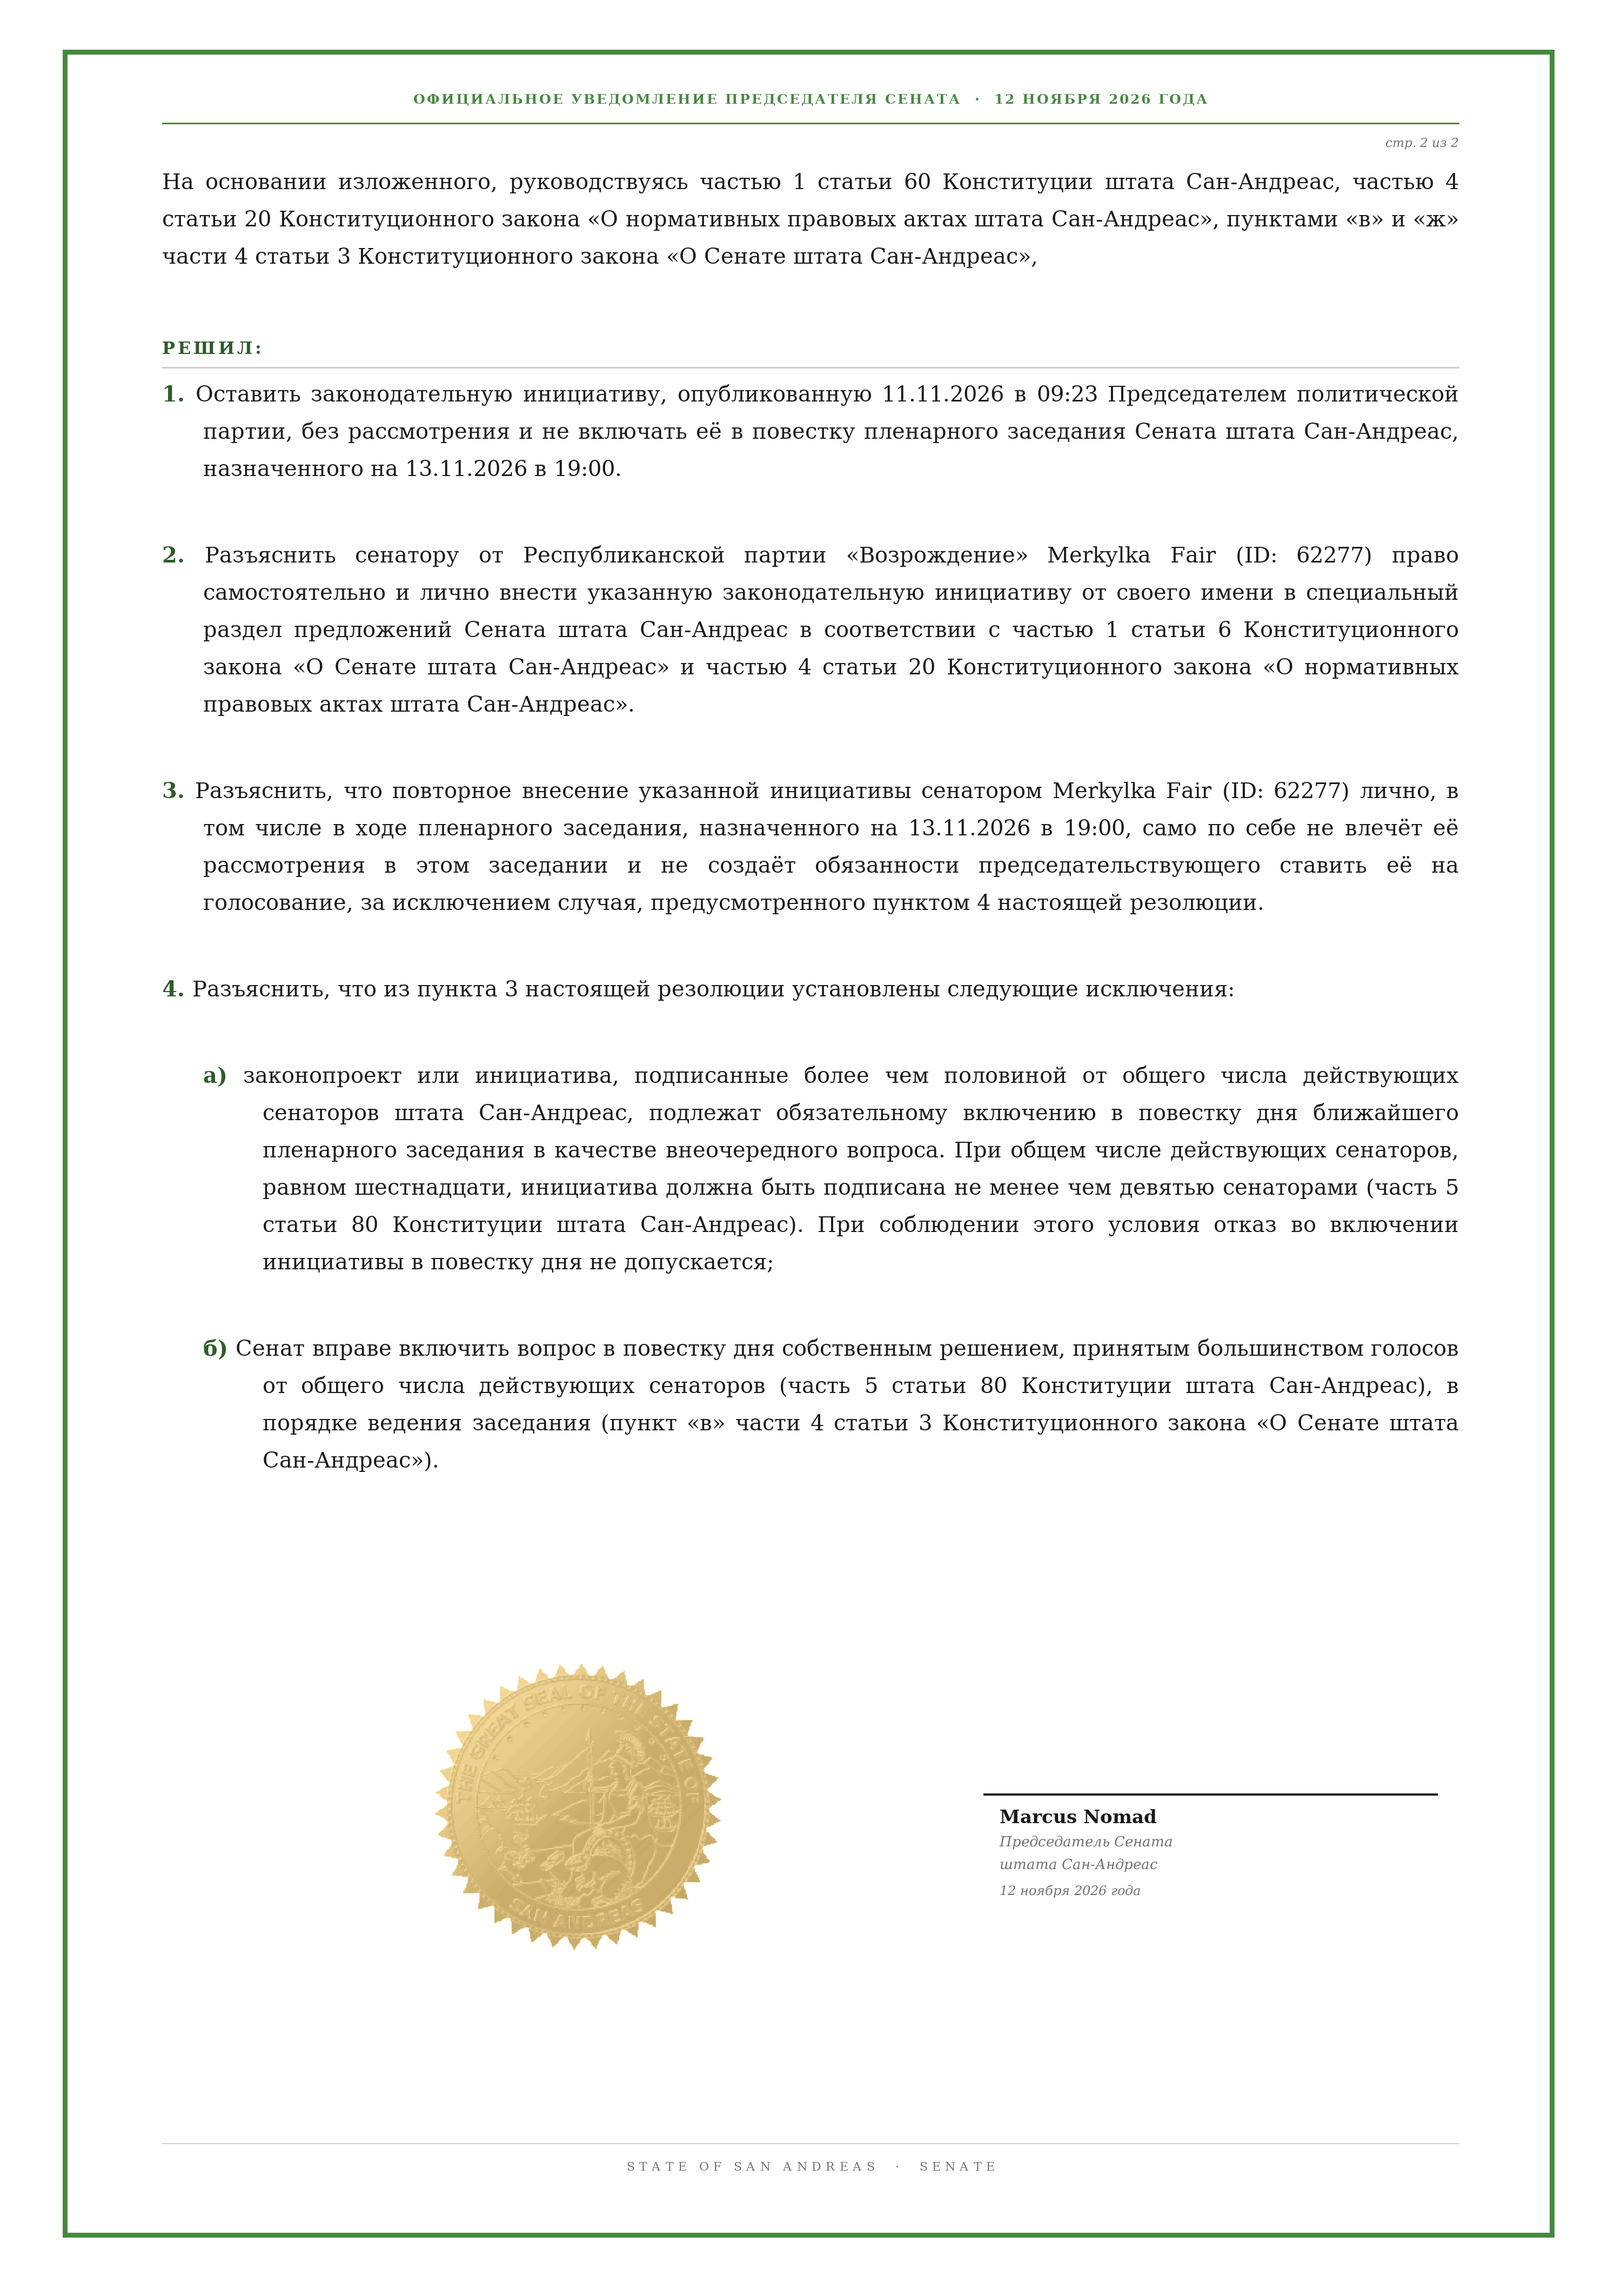
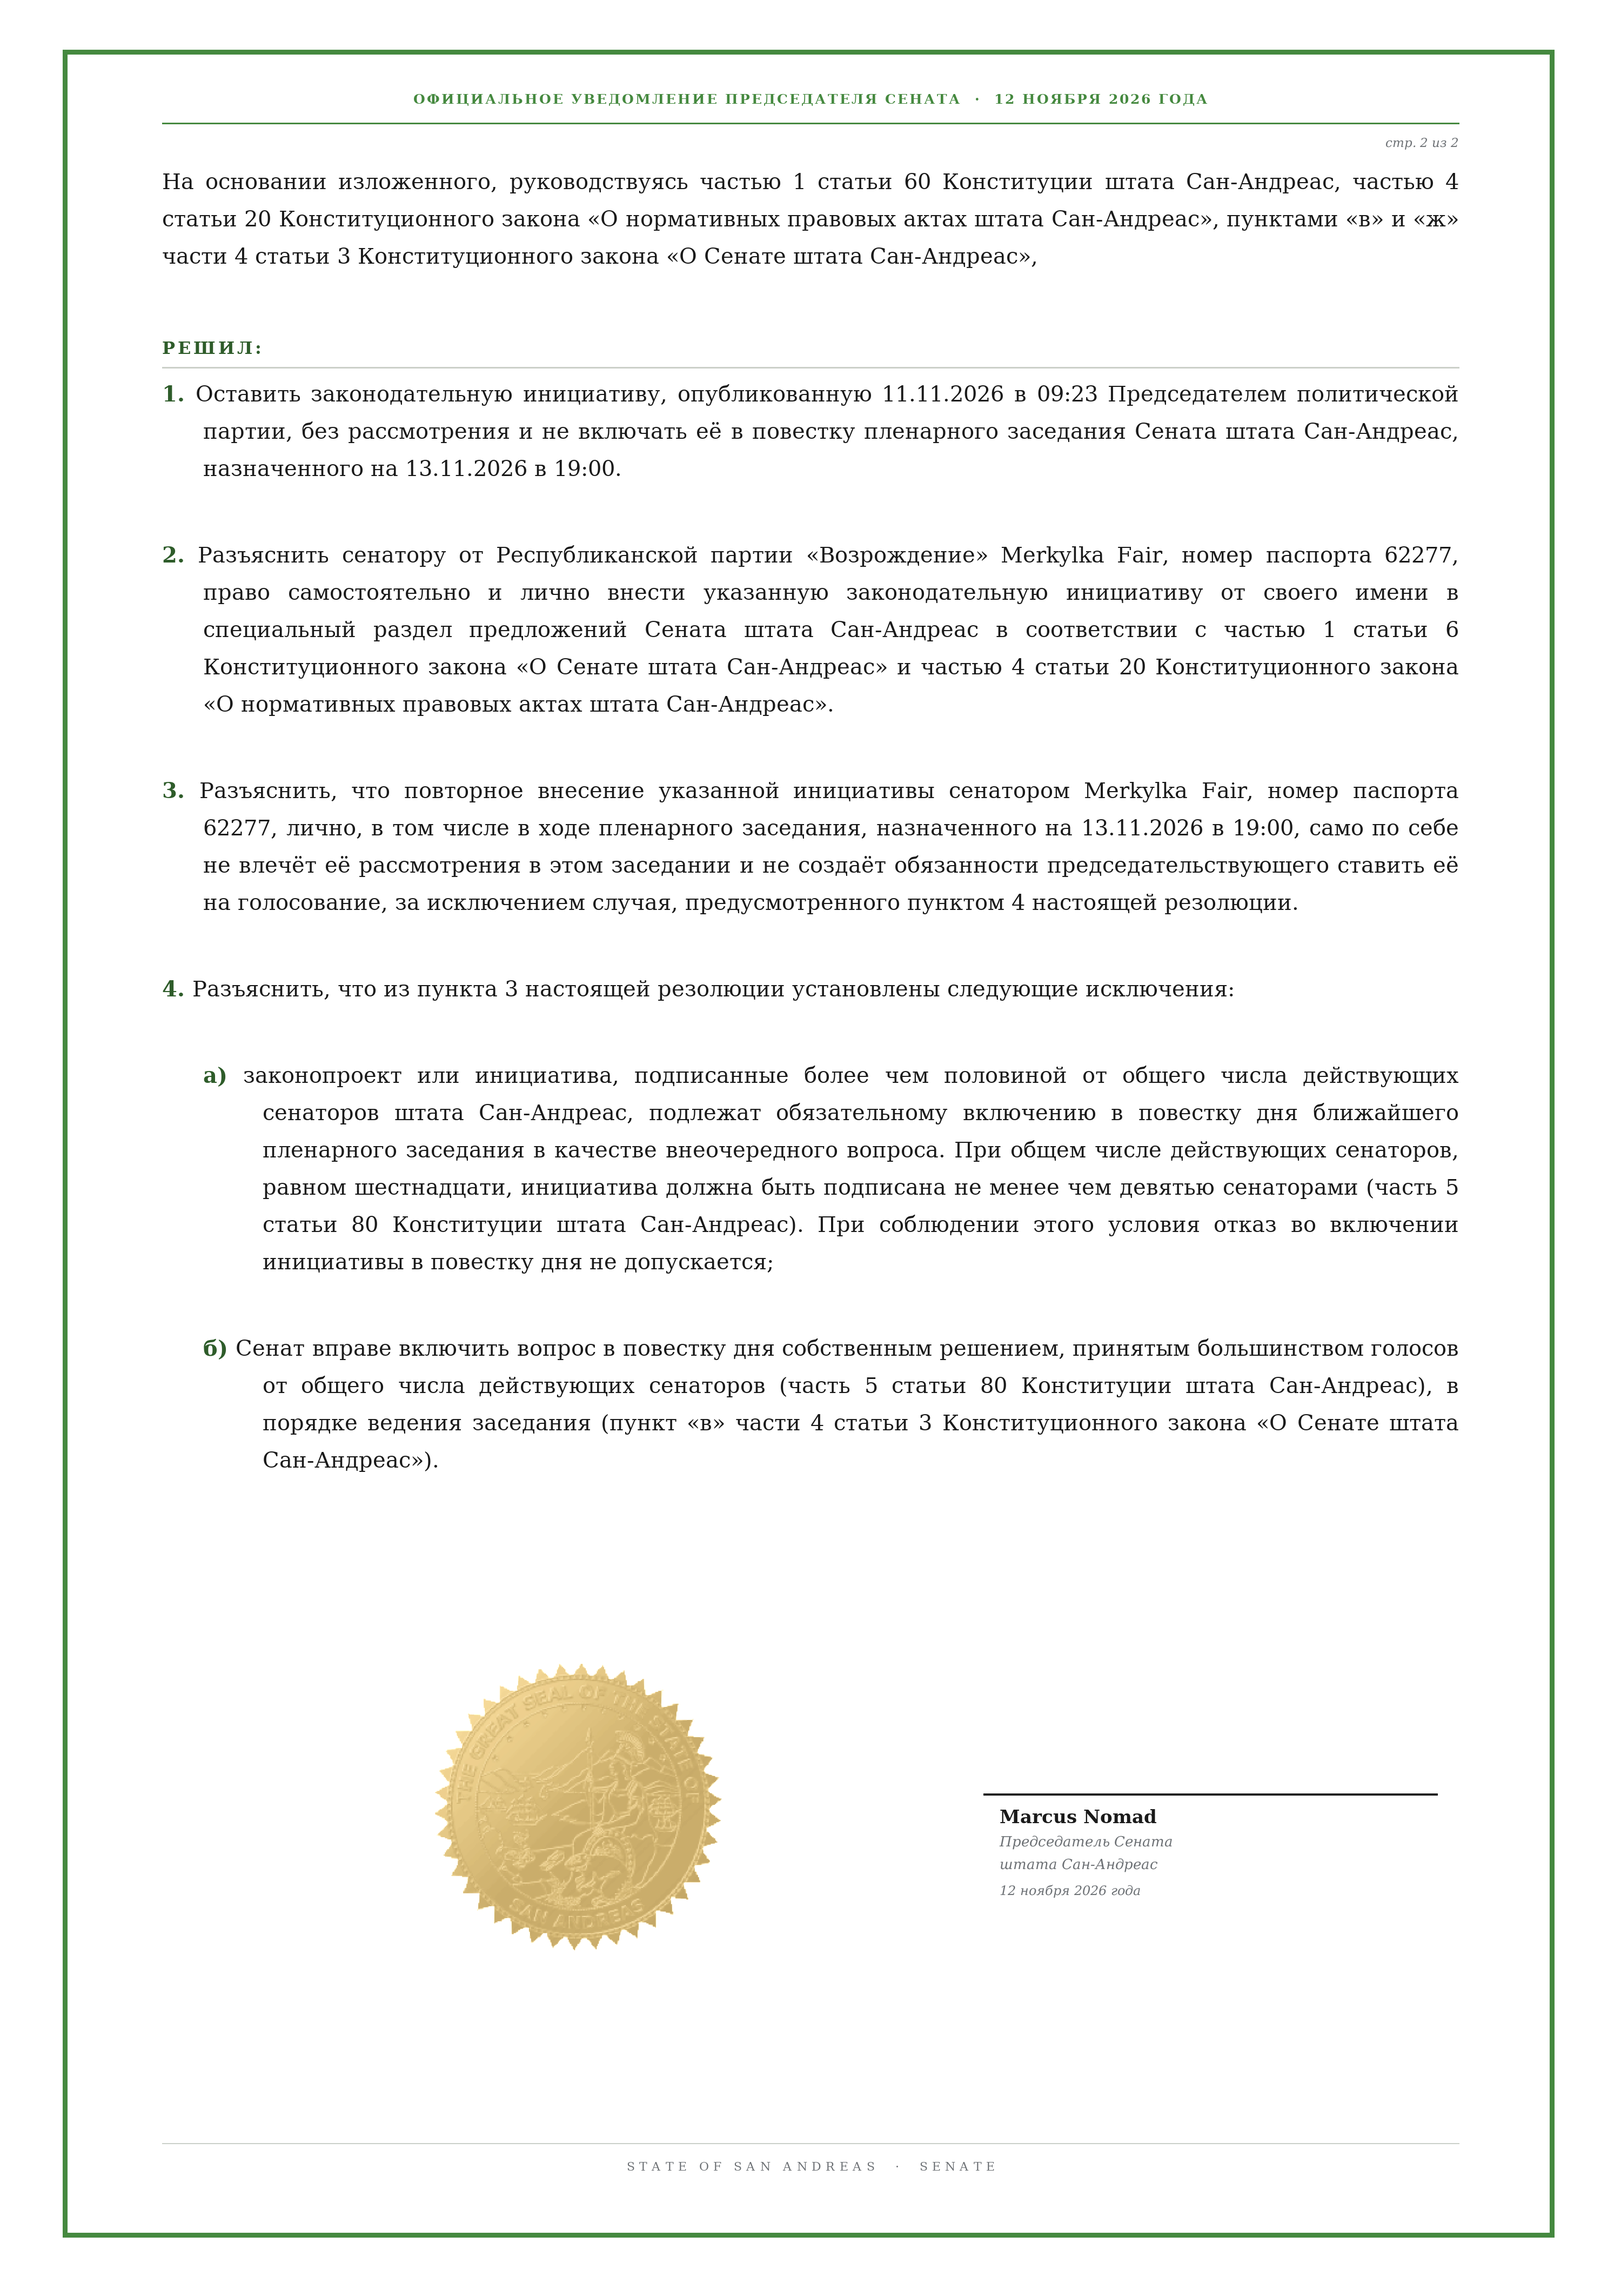
Уведомление и протокол: вместо ID - номер паспорта

Changed region(s): [[0.124, 0.3437, 0.899, 0.4062], [0.124, 0.2187, 0.899, 0.3124]]

diff --git a/tools/make_senat_notice_png.py b/tools/make_senat_notice_png.py
@@ -25,8 +25,8 @@ LH = 1.74
 # ------------------------------------------------------------------ данные
 ADDRESS = [
     ("Кому:", "Председателю политической партии, сенатору от Республиканской партии "
-              "«Возрождение» Merkylka Fair (ID: 62277)"),
-    ("От:", "Председателя Сената штата Сан-Андреас Marcus Nomad (ID: 85028)"),
+              "«Возрождение» Merkylka Fair, номер паспорта 62277"),
+    ("От:", "Председателя Сената штата Сан-Андреас Marcus Nomad, номер паспорта 85028"),
     ("Дата:", "12.11.2026"),
 ]
 
@@ -37,7 +37,7 @@ INTRO = ("Рассмотрев в порядке ведения вопросов
          "Сан-Андреас») обращение (законодательную инициативу), размещённое 11.11.2026 в "
          "09:23 Председателем политической партии с указанием внутри текста на "
          "представление инициативы сенатором от Республиканской партии «Возрождение» "
-         "Merkylka Fair (ID: 62277),")
+         "Merkylka Fair, номер паспорта 62277,")
 
 ITEMS = [
     ("1.", "Частью 1 статьи 60 Конституции штата Сан-Андреас установлен перечень "
@@ -75,14 +75,14 @@ DECISIONS = [
            "Председателем политической партии, без рассмотрения и не включать её в повестку "
            "пленарного заседания Сената штата Сан-Андреас, назначенного на 13.11.2026 в "
            "19:00."),
-    ("2.", "Разъяснить сенатору от Республиканской партии «Возрождение» Merkylka Fair "
-           "(ID: 62277) право самостоятельно и лично внести указанную законодательную "
+    ("2.", "Разъяснить сенатору от Республиканской партии «Возрождение» Merkylka Fair"
+           ", номер паспорта 62277, право самостоятельно и лично внести указанную законодательную "
            "инициативу от своего имени в специальный раздел предложений Сената штата "
            "Сан-Андреас в соответствии с частью 1 статьи 6 Конституционного закона «О Сенате "
            "штата Сан-Андреас» и частью 4 статьи 20 Конституционного закона «О нормативных "
            "правовых актах штата Сан-Андреас»."),
-    ("3.", "Разъяснить, что повторное внесение указанной инициативы сенатором Merkylka Fair "
-           "(ID: 62277) лично, в том числе в ходе пленарного заседания, назначенного на "
+    ("3.", "Разъяснить, что повторное внесение указанной инициативы сенатором Merkylka Fair"
+           ", номер паспорта 62277, лично, в том числе в ходе пленарного заседания, назначенного на "
            "13.11.2026 в 19:00, само по себе не влечёт её рассмотрения в этом заседании и не "
            "создаёт обязанности председательствующего ставить её на голосование, за "
            "исключением случая, предусмотренного пунктом 4 настоящей резолюции."),

diff --git a/tools/make_senat_protocol_png.py b/tools/make_senat_protocol_png.py
@@ -401,7 +401,7 @@ def page1(d, draw=True):
     y = table(d, y, ["№", "Орган или партия", "Сенатор", "№ паспорта"], SENATORS,
               W_SEN, draw=draw, size=26, center_cols=(0, 2, 3))
     y += 10
-    y = note(d, y, "В графе «№ паспорта» указаны номера паспортов (ID-карт) сенаторов, а не "
+    y = note(d, y, "В графе «№ паспорта» указаны номера паспортов сенаторов, а не "
                    "порядковые номера.", size=21, draw=draw, space_after=34)
 
     y = heading(d, y, "III.  ВОПРОСЫ, ПОСТАВЛЕННЫЕ НА ГОЛОСОВАНИЕ", draw=draw)
